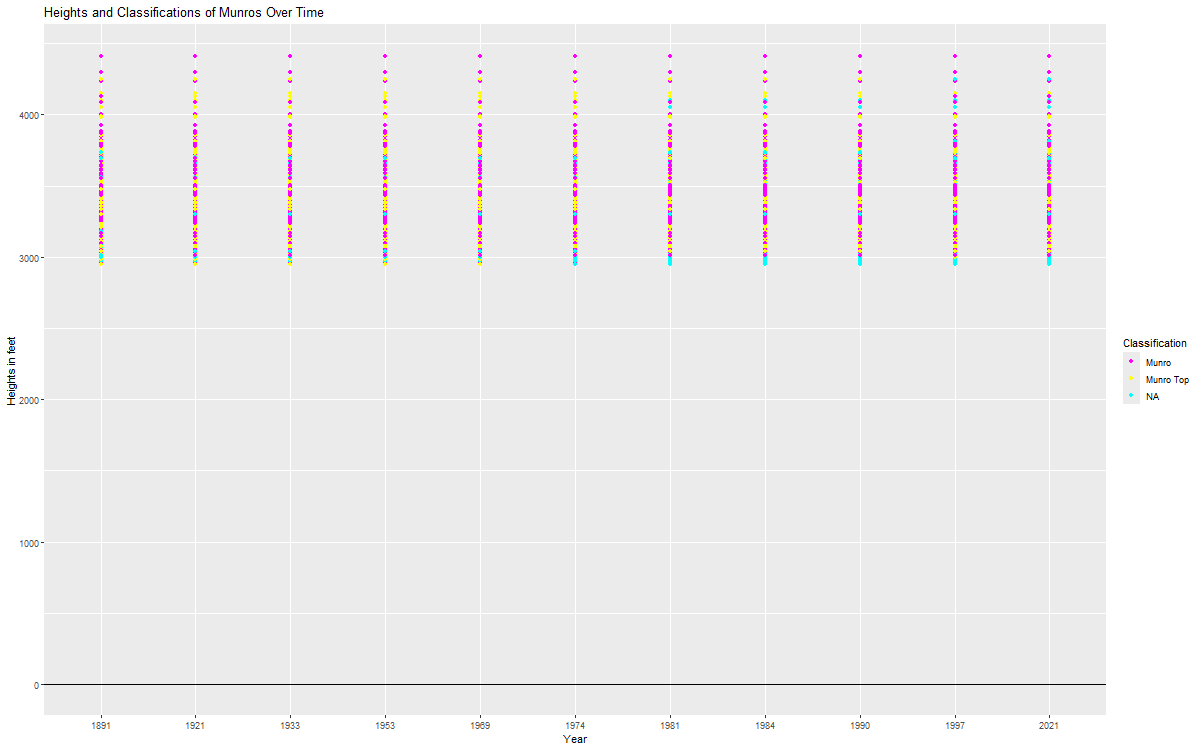
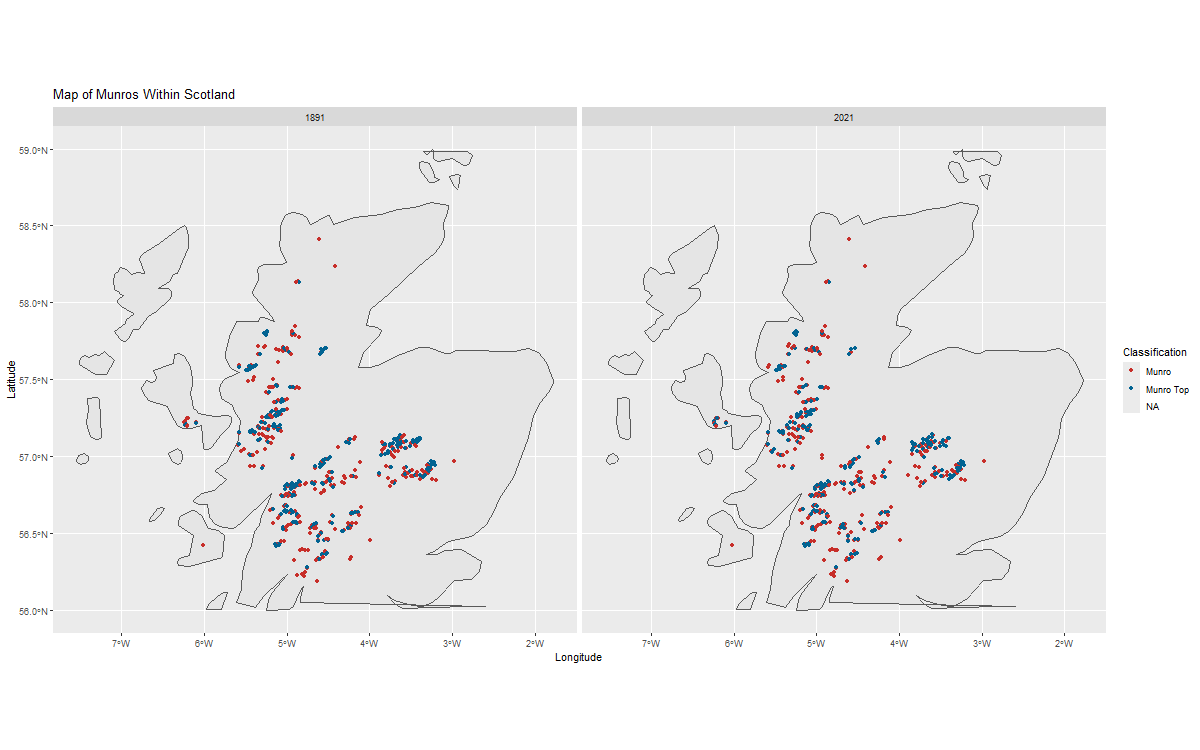
fix - adds heights.png and changes map.png

diff --git a/Aug18/README.md b/Aug18/README.md
@@ -1,2 +1,6 @@
  **Attribution Studies Per Event, Per Year **
+ First, I looked to see if there was any arbitrary height cutoff:
+![](/Aug18/plot.png)
+ 
+Next, I looked at the areas where munros are classified:
 ![](/Aug18/map.png)
